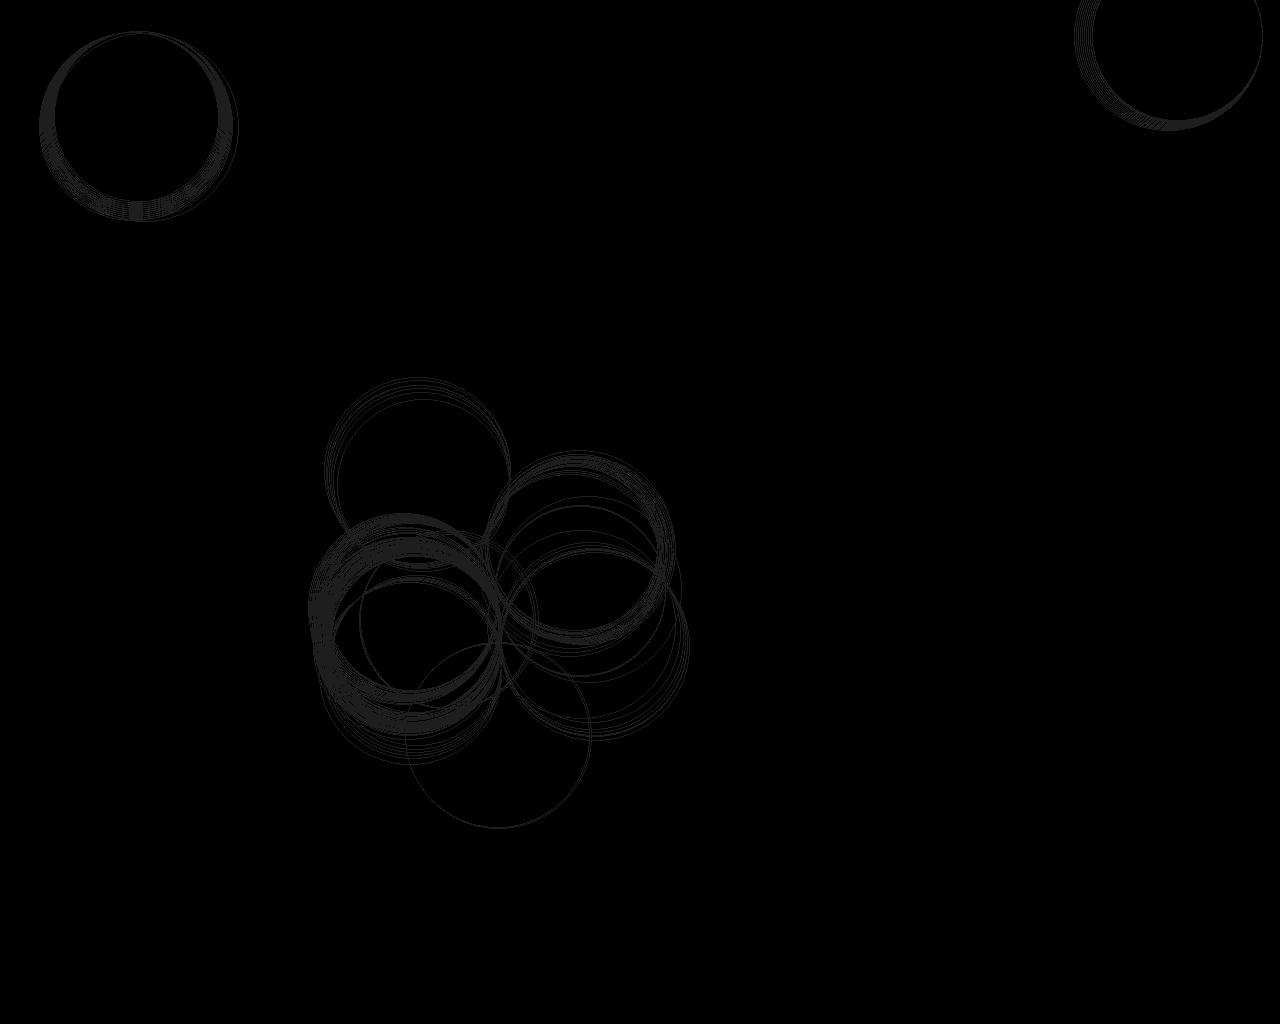
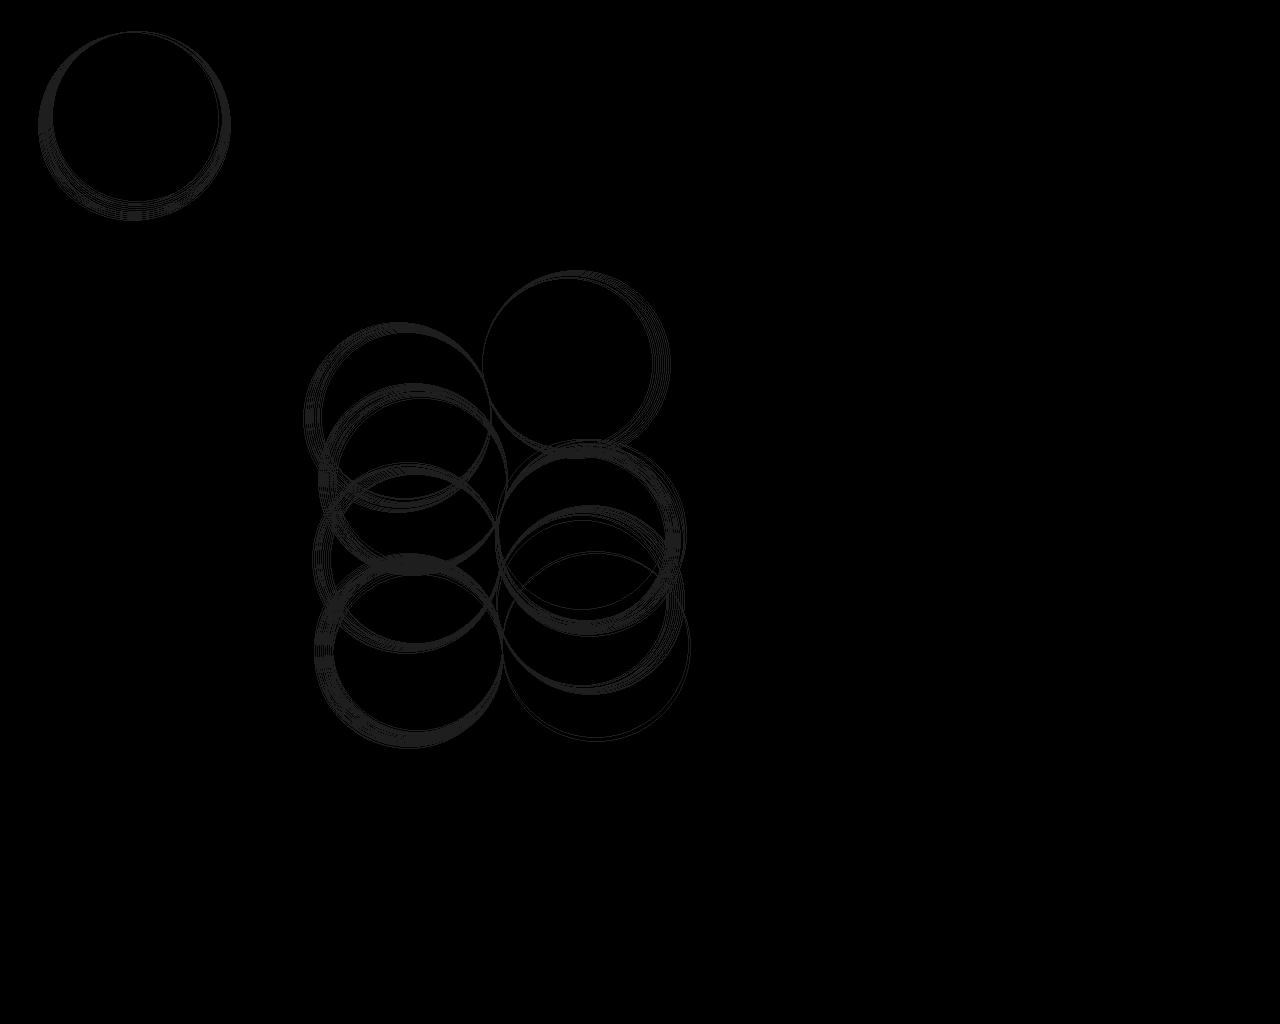
new stuff

diff --git a/cv.py b/cv.py
@@ -141,7 +141,7 @@ def find_circles_by_color(centers, accums, radii, rgb_img, hsv_color_ranges):
 		found_color = find_colors(pixel_color, hsv_color_ranges, False)	# string of color, 'blue', 'green', 'red' or 'white'
 		if found_color is not None: 
 			coords[found_color].append(centers[idx])
-			debug_img = add_circle_outlines_to_image(debug_img, center_y, center_x, radii[idx], pixel_color) # 23 is radius
+			debug_img = add_circle_outlines_to_image(debug_img, center_y, center_x, radii[idx], pixel_color) 
 		else:
 			# draw also all circles not matching the specific colors, but in dark gray
 			debug_img = add_circle_outlines_to_image(debug_img, center_y, center_x, radii[idx], (30,30,30))
@@ -306,7 +306,7 @@ if __name__ == '__main__':
 	print('Import the main function via \'from cv import detect_colored_circles\'')
 	path = './img/0_photo.jpg'
 
-	radius_range = (20,25) # radius of circles in pixels
+	radius_range = (85,95) # radius of circles in pixels
 
 	# ((h_min, s_min, v_min),(h_max, s_max, v_max))
 	hsv_color_ranges = {
